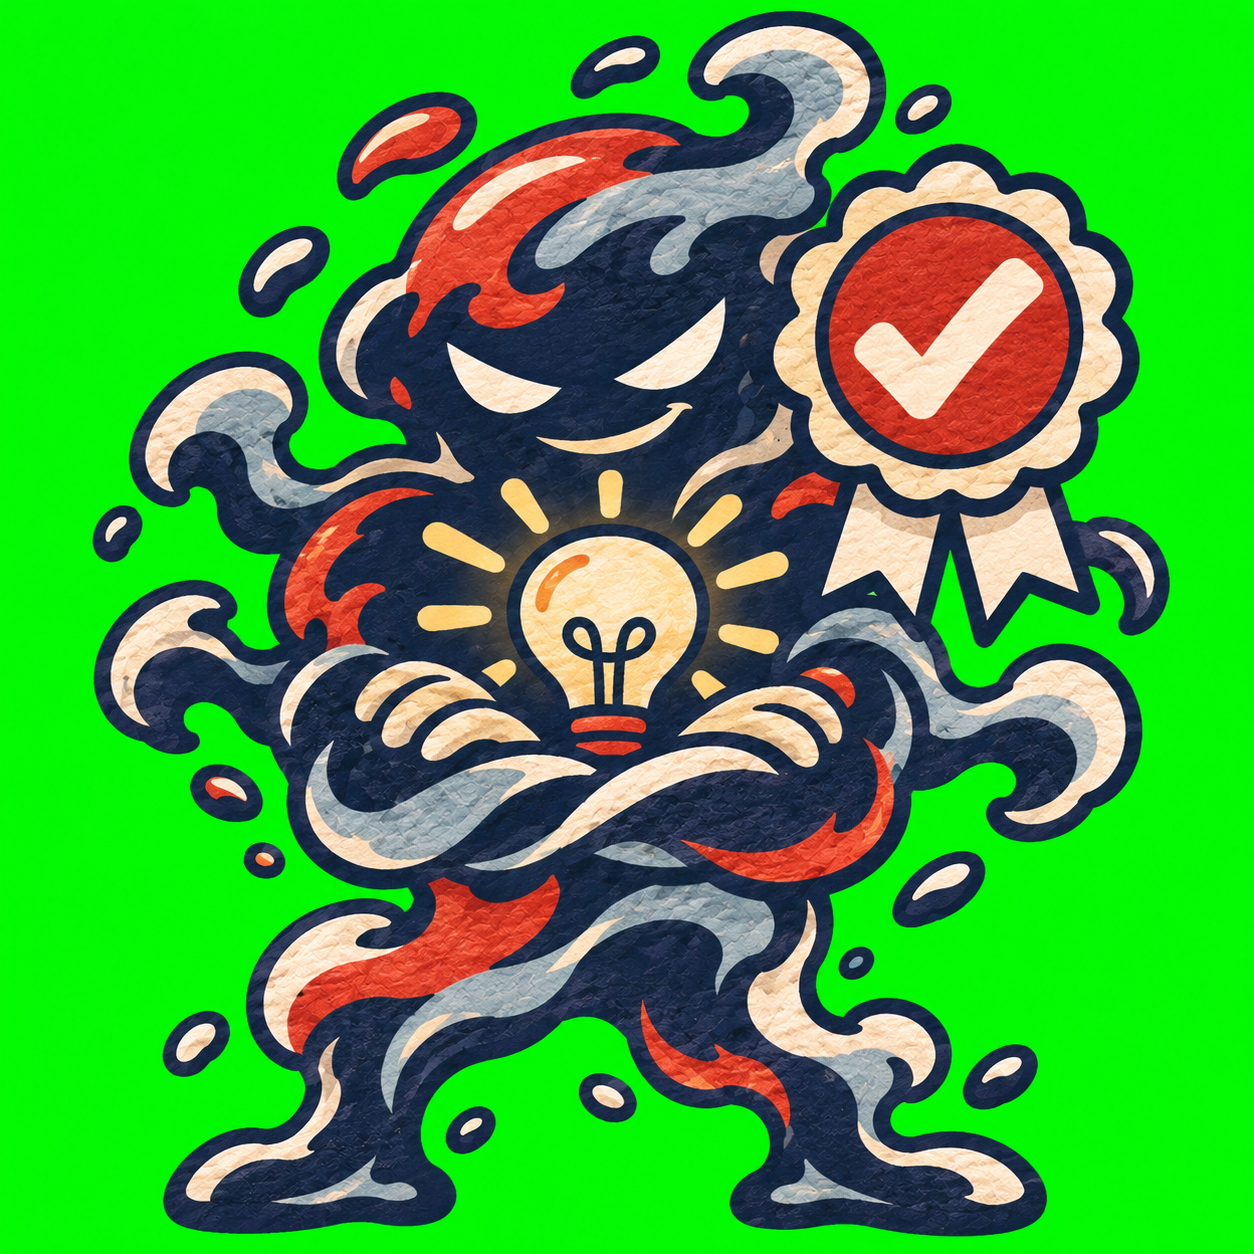
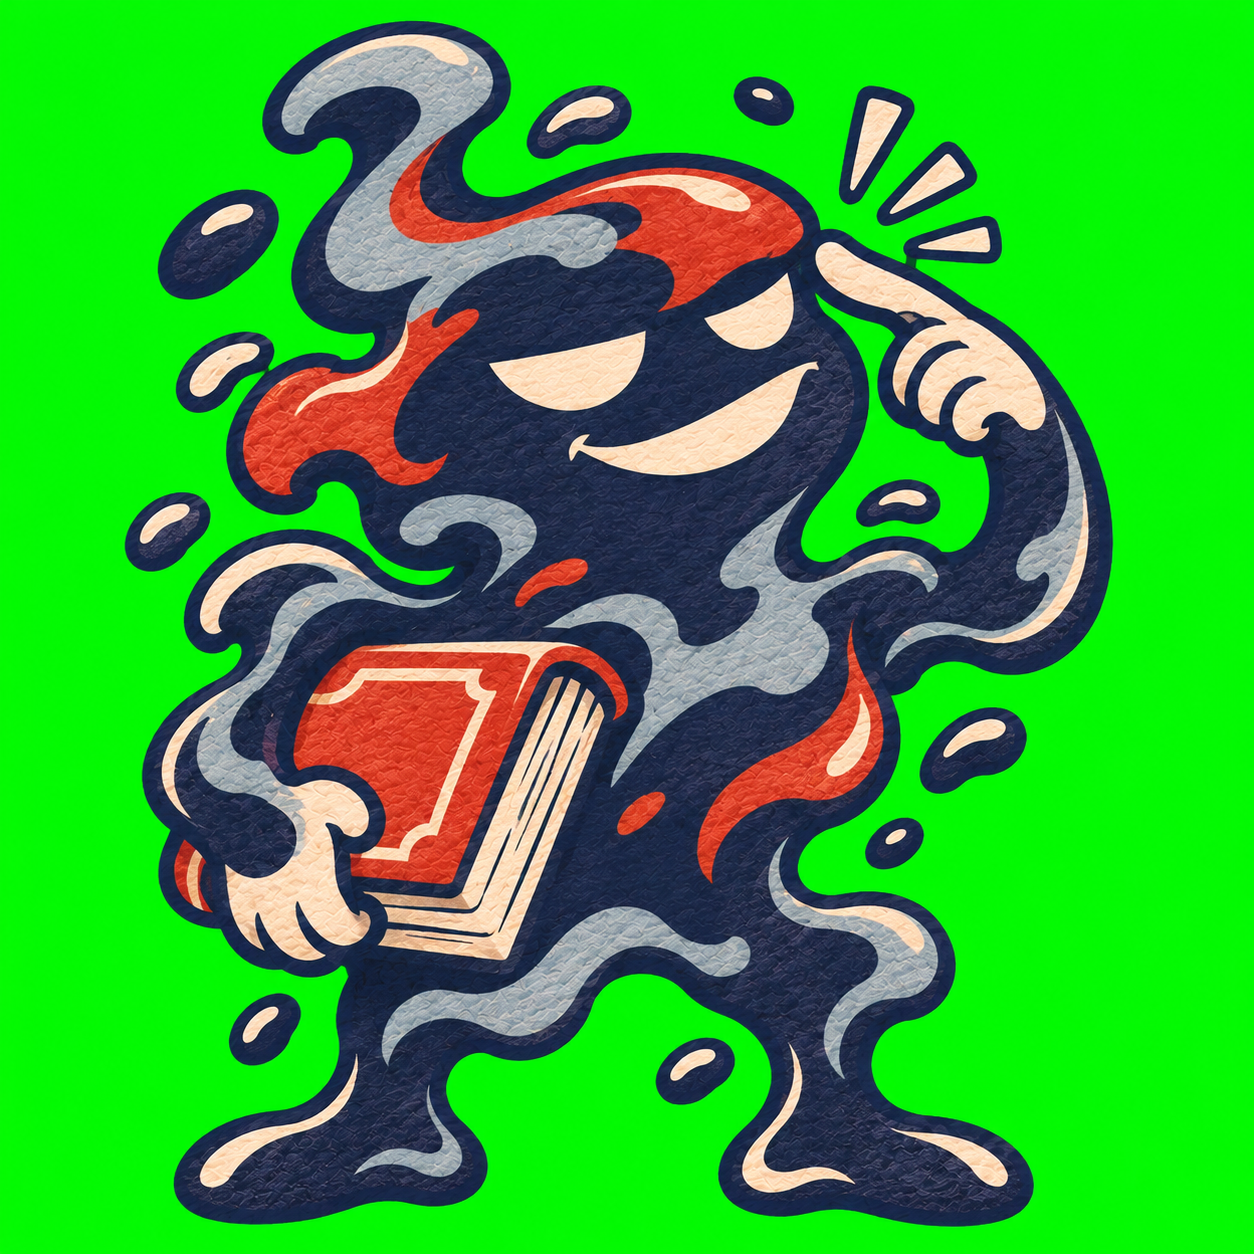
WIP: 単語の絵・地図・再戦の演出（作業中）
Claude-Session: https://claude.ai/code/session_01NxsVqWd6E8wULWa2eDL34e

diff --git a/products/word-guild/sw.js b/products/word-guild/sw.js
@@ -1,4 +1,4 @@
-const VERSION = '9cce75a5';
+const VERSION = 'a98602dc';
 const PRECACHE = ["./album.css","./app.mjs","./art/atenashi.webp","./art/body-action.webp","./art/body-body.webp","./art/body-doc.webp","./art/body-food.webp","./art/body-goods.webp","./art/body-mind.webp","./art/body-money.webp","./art/body-move.webp","./art/body-nature.webp","./art/body-number.webp","./art/body-person.webp","./art/body-place.webp","./art/body-state.webp","./art/body-time.webp","./art/body-tool.webp","./art/body-work.webp","./art/fuurou-normal.webp","./art/fuurou-stamp.webp","./art/hatori-normal.webp","./art/hatori-smile.webp","./art/hokoridama.webp","./art/house-1.webp","./art/house-10.webp","./art/house-11.webp","./art/house-12.webp","./art/house-13.webp","./art/house-14.webp","./art/house-15.webp","./art/house-16.webp","./art/house-17.webp","./art/house-18.webp","./art/house-19.webp","./art/house-2.webp","./art/house-20.webp","./art/house-21.webp","./art/house-22.webp","./art/house-23.webp","./art/house-24.webp","./art/house-25.webp","./art/house-26.webp","./art/house-27.webp","./art/house-28.webp","./art/house-29.webp","./art/house-3.webp","./art/house-30.webp","./art/house-31.webp","./art/house-32.webp","./art/house-33.webp","./art/house-34.webp","./art/house-35.webp","./art/house-36.webp","./art/house-37.webp","./art/house-38.webp","./art/house-39.webp","./art/house-4.webp","./art/house-40.webp","./art/house-41.webp","./art/house-42.webp","./art/house-43.webp","./art/house-44.webp","./art/house-45.webp","./art/house-46.webp","./art/house-47.webp","./art/house-48.webp","./art/house-49.webp","./art/house-5.webp","./art/house-50.webp","./art/house-51.webp","./art/house-52.webp","./art/house-53.webp","./art/house-54.webp","./art/house-55.webp","./art/house-56.webp","./art/house-6.webp","./art/house-7.webp","./art/house-8.webp","./art/house-9.webp","./art/icon-180.png","./art/icon-192.png","./art/icon-512.png","./art/keshikasu.webp","./art/key-visual.webp","./art/nijimi.webp","./art/open-2.webp","./art/open-3.webp","./art/oshimi.webp","./art/post-office.webp","./art/shimi.webp","./art/tsumugi-joy.webp","./art/tsumugi-normal.webp","./art/ward-1.webp","./art/ward-2.webp","./art/ward-3.webp","./art/ward-4.webp","./art/ward-5.webp","./art/ward-6.webp","./data/chara.json","./data/rare.json","./data/scenes.json","./data/story-allow.json","./data/story-ps.json","./data/story.json","./data/words.json","./guild/album.mjs","./guild/art.mjs","./guild/board.mjs","./guild/chapters.mjs","./guild/chara-svg.mjs","./guild/chara.mjs","./guild/cinema.mjs","./guild/credits.mjs","./guild/daily.mjs","./guild/dom.mjs","./guild/library.mjs","./guild/map.mjs","./guild/music.mjs","./guild/pwa.mjs","./guild/quest.mjs","./guild/rng.mjs","./guild/settings.mjs","./guild/srs.mjs","./guild/stages.mjs","./guild/store.mjs","./guild/story.mjs","./guild/trace.mjs","./guild/view.mjs","./guild/words.mjs","./index.html","./letter.css","./manifest.webmanifest","./map.css","./style.css"];
 const CACHE = `wg-shell-${VERSION}`;
 const shellURL = new URL('./index.html', self.location.href).href;

diff --git a/products/word-guild/map.css b/products/word-guild/map.css
@@ -18,7 +18,8 @@
 .gq-haze{position:absolute;left:0;right:0;top:0;height:40%;background:linear-gradient(rgba(205,218,224,.95),rgba(205,218,224,0));pointer-events:none;z-index:200}
 .gq-fogband{position:absolute;left:0;right:0;top:0;height:72%;background:linear-gradient(rgba(205,218,224,var(--d)),rgba(205,218,224,0));pointer-events:none;z-index:201}
 
-.gq-road-svg{position:absolute;left:0;top:0;width:100%;height:100%;pointer-events:none}
+.gq-road-svg{position:absolute;left:0;top:0;width:100%;height:100%;pointer-events:none;animation:none;transition:none;transform:none}
+.gq-road-svg path{animation:none;transition:none;transform:none}
 .gq-road-svg .base{fill:var(--paper-hi);opacity:.97}
 .gq-road-svg .lines{fill:none;stroke:var(--ink);stroke-width:1.4;opacity:.16}
 .gq-road-svg .walked{fill:var(--lamp);opacity:.75}
@@ -99,7 +100,9 @@
 .gq-house-shadow,.gq-house-color,.gq-house-warm{position:absolute;inset:0;width:100%;height:100%;object-fit:contain}
 .gq-house-shadow,.gq-house-warm{-webkit-mask:var(--house-image) center/contain no-repeat;mask:var(--house-image) center/contain no-repeat}
 .gq-house-shadow{background:var(--ink);opacity:.88}
-.gq-house-color{clip-path:inset(var(--reveal) 0 0)}
+.gq-house-color{-webkit-mask-image:linear-gradient(to bottom,transparent calc(var(--reveal) - 12%),#000 calc(var(--reveal) + 12%));mask-image:linear-gradient(to bottom,transparent calc(var(--reveal) - 12%),#000 calc(var(--reveal) + 12%))}
+.gq-house[data-reveal="0"] .gq-house-color{visibility:hidden}
+.gq-house[data-reveal="100"] .gq-house-color{-webkit-mask-image:none;mask-image:none}
 .gq-house-halo{position:absolute;inset:-12%;background:radial-gradient(ellipse,#ffd77e88,transparent 68%);opacity:0}
 .gq-house-warm{background:radial-gradient(ellipse at 50% 76%,#ffc66b99,transparent 65%);opacity:0}
 .gq-house.complete .gq-house-halo,.gq-house.complete .gq-house-warm{opacity:1}

diff --git a/products/word-guild/style.css b/products/word-guild/style.css
@@ -326,3 +326,14 @@ button:active{transform:translateY(2px);box-shadow:0 1px 0 var(--ink)}
 .stamp.stamp.big.rare .pic::before{width:41%;left:29.5%}
 
 @media(prefers-reduced-motion:reduce){.gq-mons.arriving .gq-mon-body,.gq-mons.arriving::after{animation:none}.gq-mons.arriving::after{display:none}}
+
+/* 再戦は切手にせず、インクのしぶきが霧へ溶ける。SVG の祖先に filter は使わない。 */
+.gq-mon.dissolved .gq-mon-body{animation:gq-ink-break .7s ease-out both}
+.gq-mon[hidden]{display:none}
+.gq-ink-burst{position:absolute;left:50%;top:50%;width:0;height:0;pointer-events:none;z-index:3}
+.gq-ink-burst i{position:absolute;width:8px;height:13px;margin:-6px -4px;border-radius:60% 40% 55% 45%;background:var(--ink);--reach:calc(var(--enemy-size)*.4);animation:gq-ink-splash .7s ease-out both}
+.gq-ink-burst::after{content:"";position:absolute;width:var(--enemy-size);height:var(--enemy-size);margin:calc(var(--enemy-size)*-.5);border-radius:50%;background:radial-gradient(ellipse,#edf2f3bb, #d7e2e766 40%,transparent 70%);animation:gq-ink-mist .7s ease-out both}
+@keyframes gq-ink-break{0%{opacity:1;transform:scale(1)}25%{opacity:.3;transform:scale(1.12,.85)}55%,100%{opacity:0;transform:scale(.7,1.15)}}
+@keyframes gq-ink-splash{0%{opacity:0;transform:rotate(var(--angle)) translateY(0) scale(.5)}20%{opacity:1}55%{opacity:.6;background:var(--fog);transform:rotate(var(--angle)) translateY(calc(var(--reach)*-1)) scale(1.2)}100%{opacity:0;background:var(--fog);transform:rotate(var(--angle)) translateY(calc(var(--reach)*-1.3)) scale(2.2)}}
+@keyframes gq-ink-mist{0%{opacity:0;transform:scale(.3)}40%{opacity:.8}100%{opacity:0;transform:translateY(-12px) scale(1.6)}}
+@media(prefers-reduced-motion:reduce){.gq-mon.dissolved .gq-mon-body{animation:none;opacity:0}.gq-ink-burst{display:none}}

diff --git a/products/word-guild/art/work/prompts.md b/products/word-guild/art/work/prompts.md
@@ -510,3 +510,7 @@ Subject: early: ink creature greeting a sunrise, with a rooster crest and a toot
 Use case: illustration-story. Game enemy illustration, one full-body monster centered large in square composition. Match the five attached enemy illustrations: paper and letterpress ink printmaking, thick dark navy outlines, flat discrete color shapes, textured paper and ink stains come alive as a slightly cute spooky monster, white eyes. Palette primarily navy #1f2a44, mist #9fb3bf, paper #f3ead8, a little vermilion #c8462f. Make the meaning instantly recognizable through oversized clear motifs. Pure flat solid chroma green #00ff00 background, no shadows, no ground, no pattern. No green in the subject. No text, letters, numerals or other symbols except the explicitly requested visual motif; no existing characters.
 Subject: late: ink creature rushing and panting with a clock chasing it, messy hair, a bit sleepy, clock has no numbers.
 
+
+## 単語の絵：c1-055
+
+Square game enemy illustration for find: an ink monster with a large magnifying glass surprised to discover a hidden treasure chest. Match reference style: paper and letterpress ink print, thick navy outlines, flat navy, mist, paper and a little vermilion, textured ink stain monster with white eyes. Full body centered, clear meaning. Pure flat solid #00ff00 green background, no ground or shadows, no green on subject. No text, letters, numbers or symbols.
